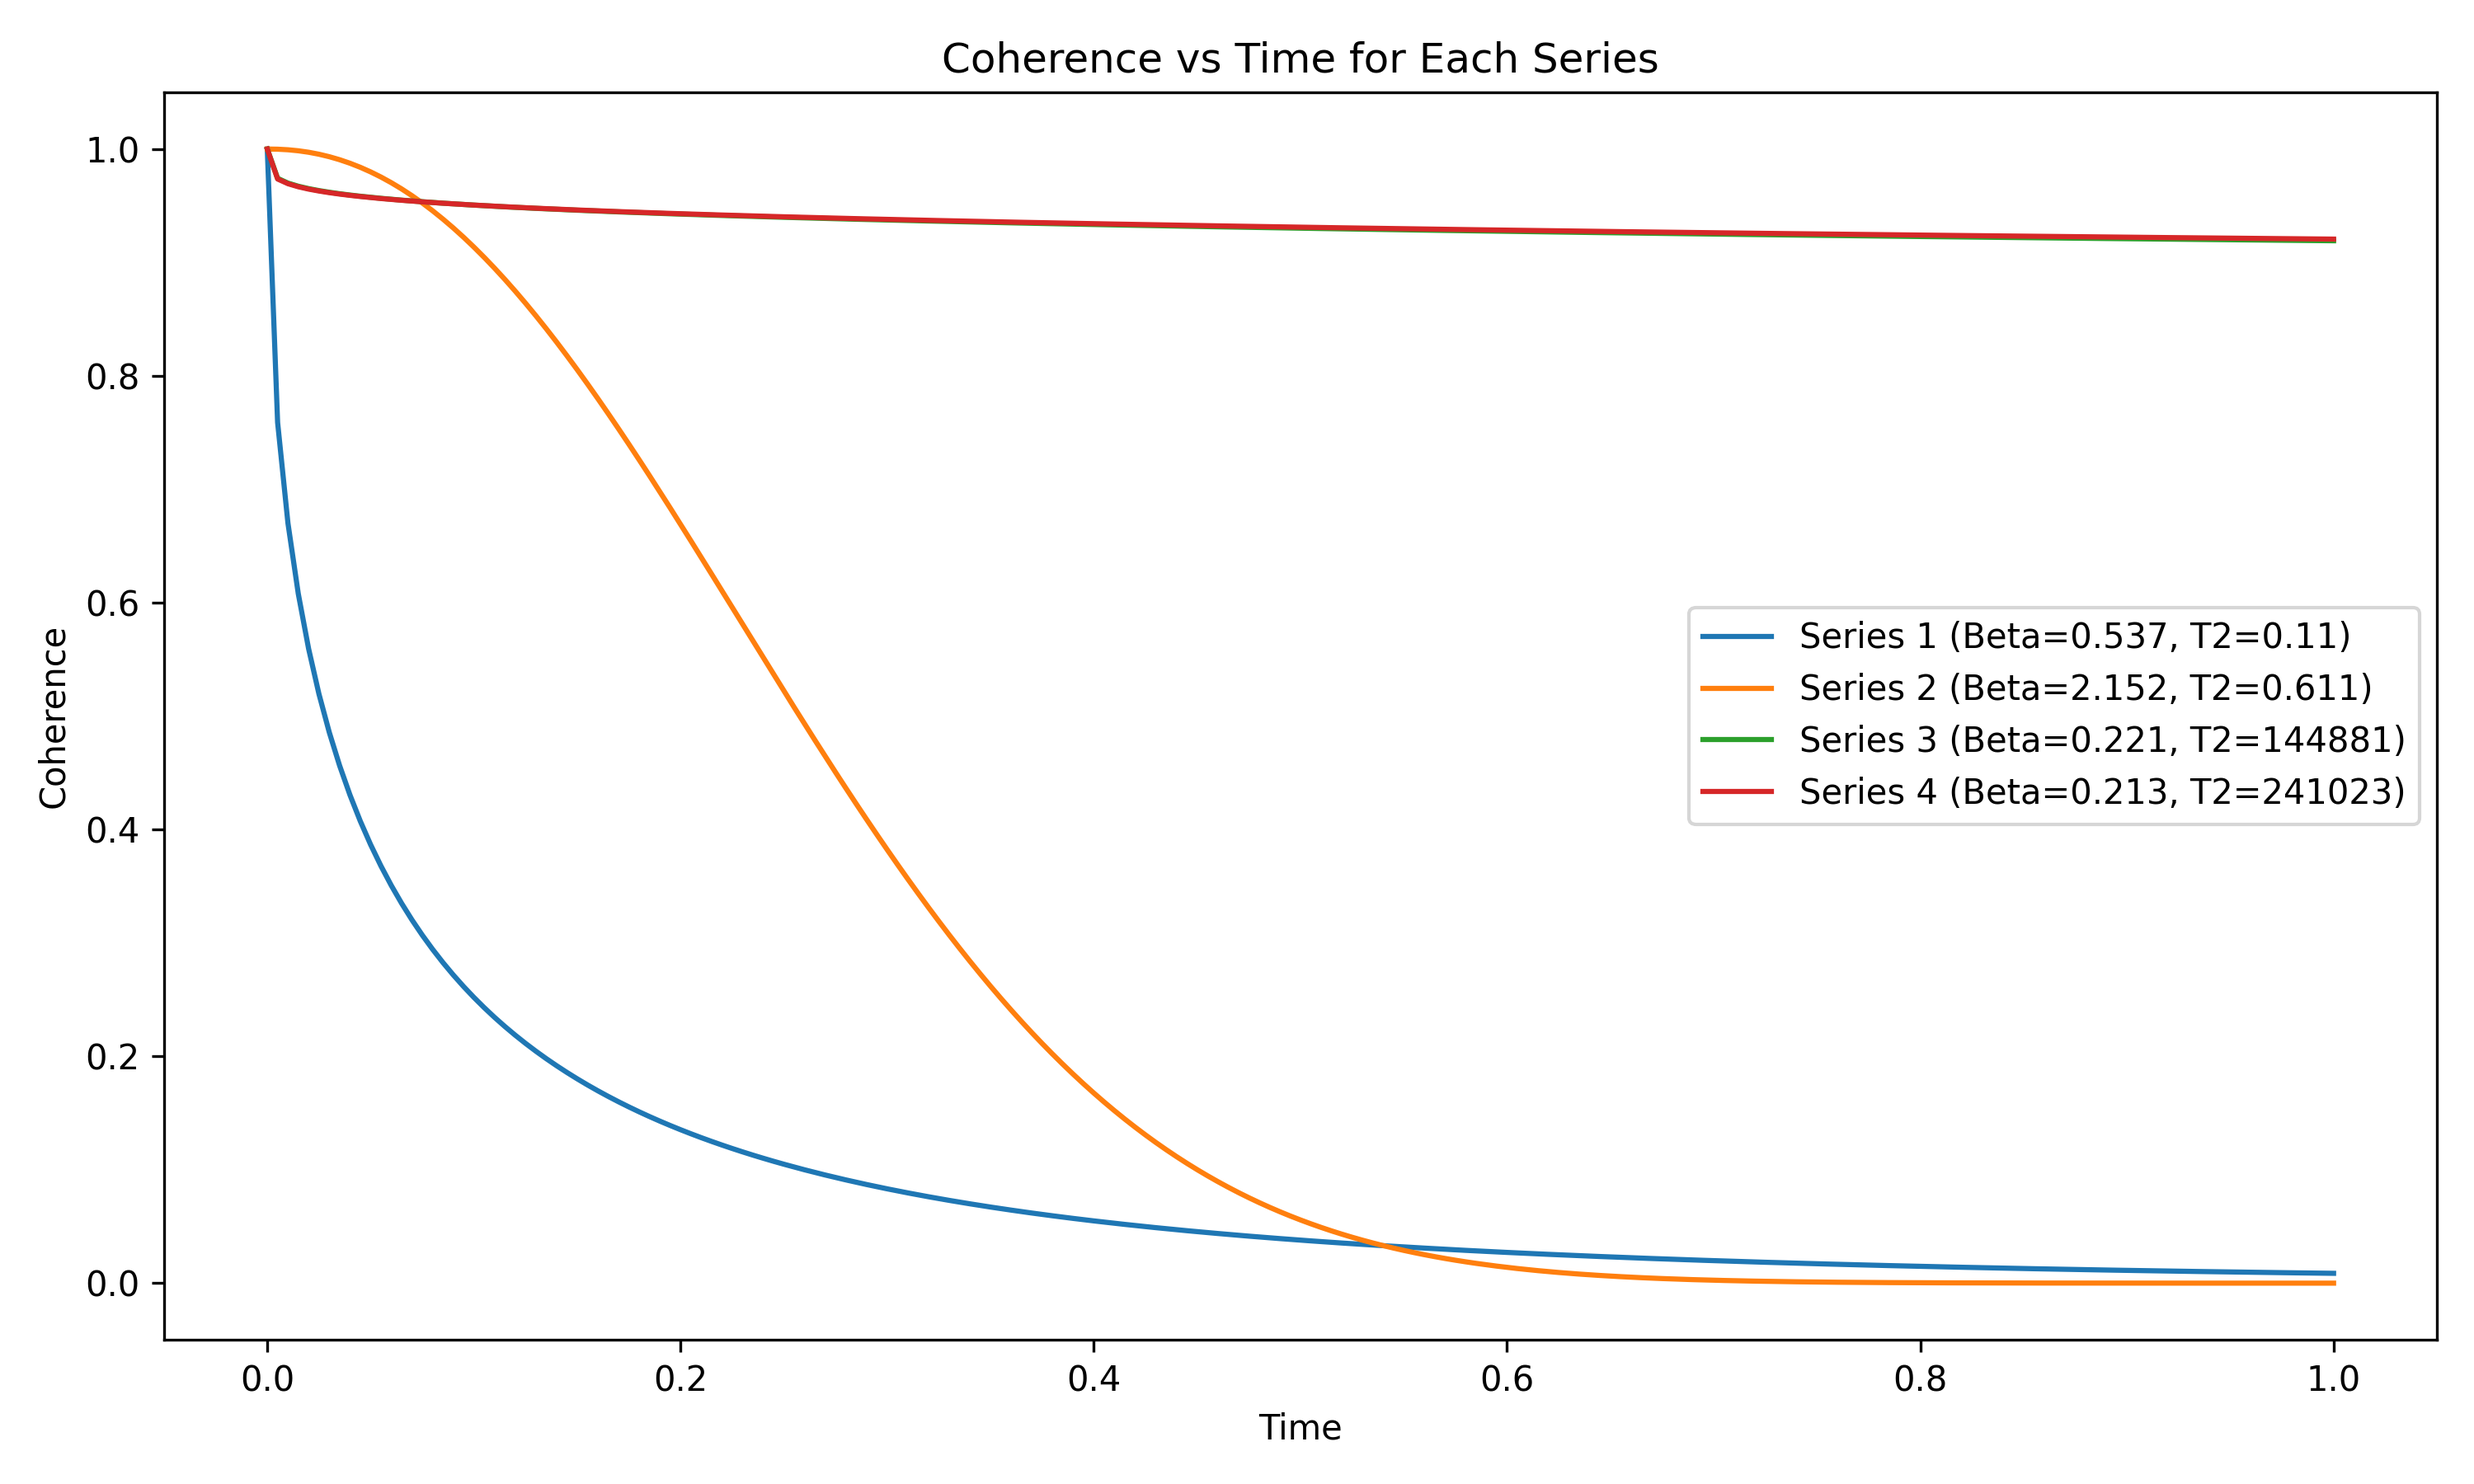
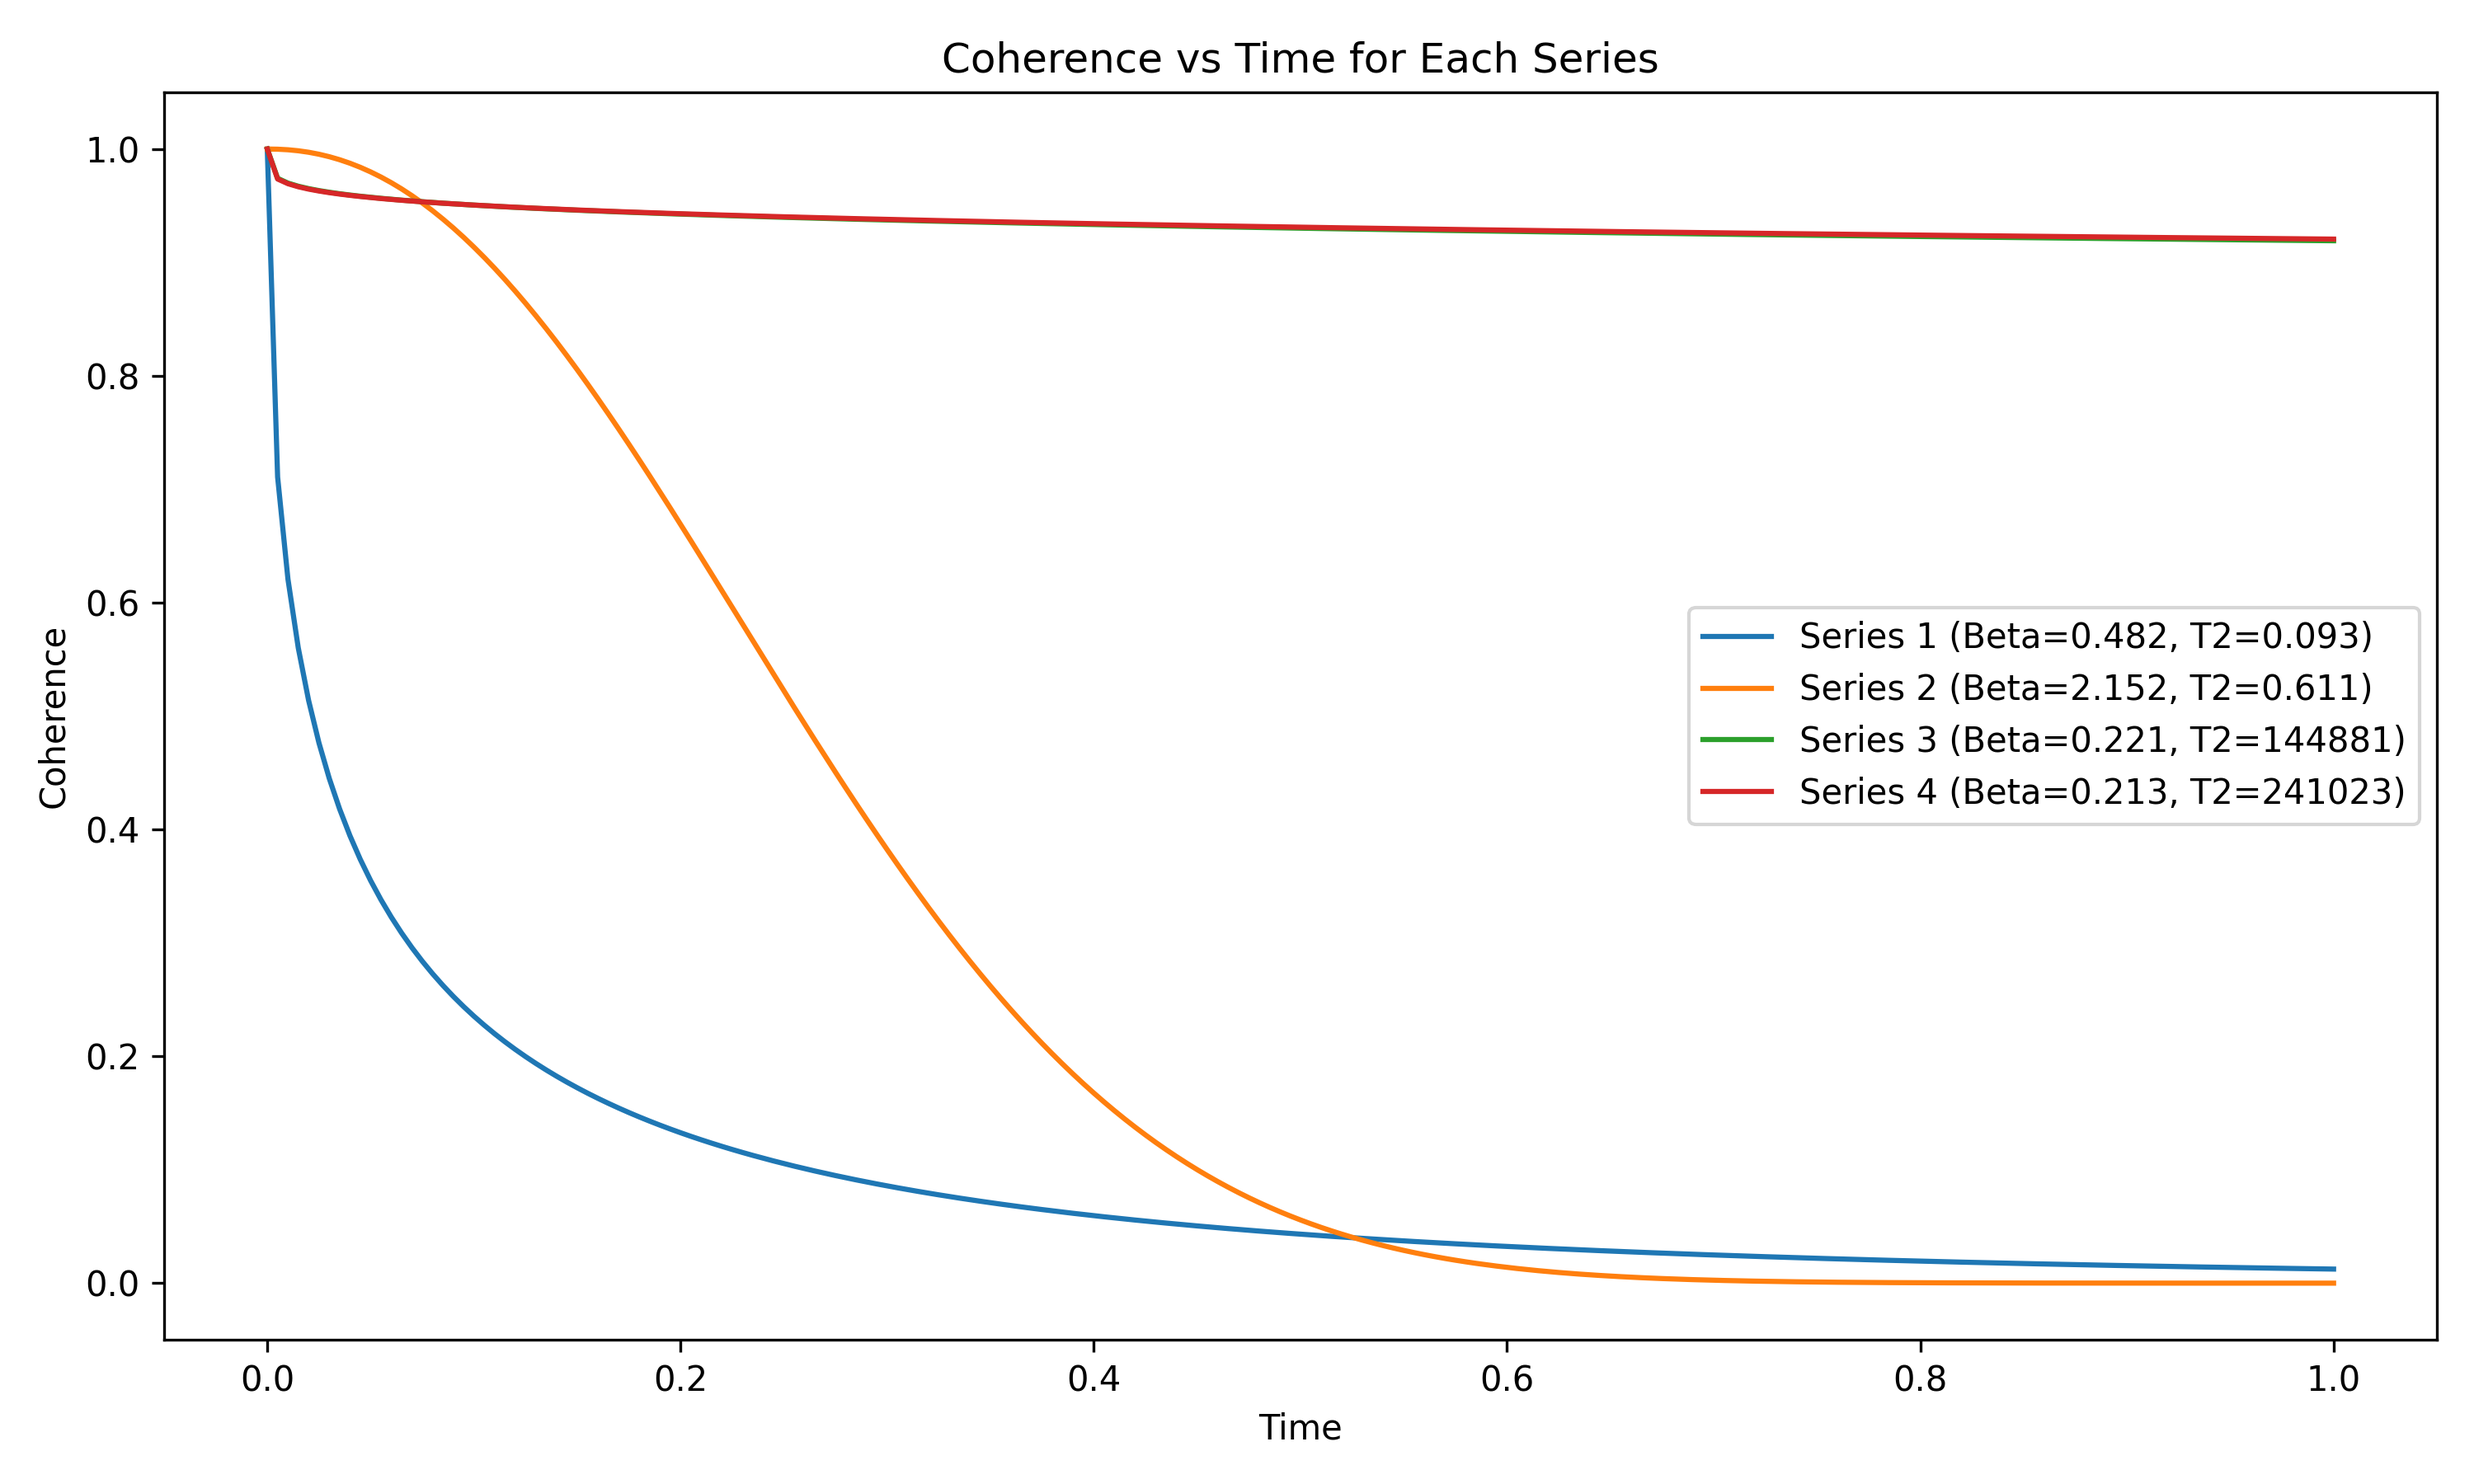
Updated with -(e) results with r_bath=150; now T_2=75 us!!!!!!!

diff --git a/VOTPP folder/VOTPP_product_rule.py b/VOTPP folder/VOTPP_product_rule.py
@@ -11,7 +11,7 @@ timespace = np.linspace(0, 1, 201)
 
 # Series parameters
 series_params = [
-    {"beta": 0.537, "T2": 0.110},  # Series 1
+    {"beta": 0.482, "T2": 0.093},  # Series 1
     {"beta": 2.152, "T2": 0.611},   # Series 2
     # {"beta": 2.185, "T2": 0.249},  # Series 1
     # {"beta": 3.539, "T2": 1.028},   # Series 2
